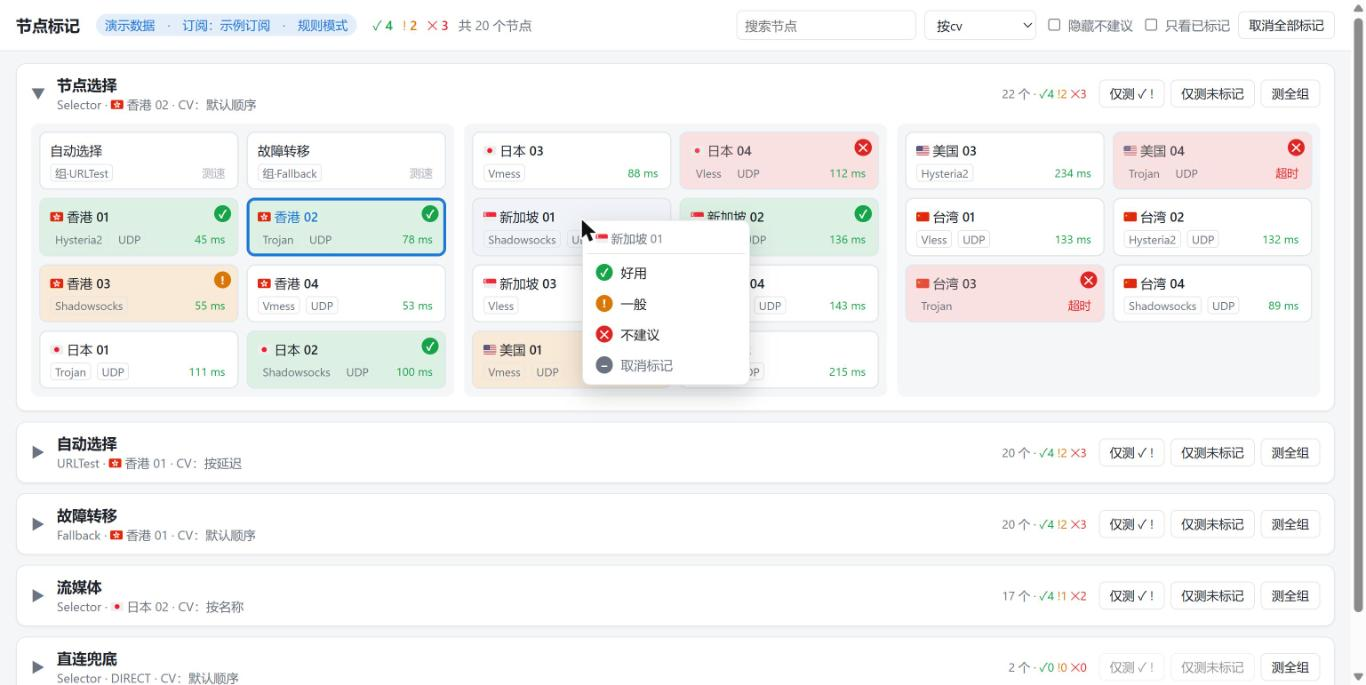
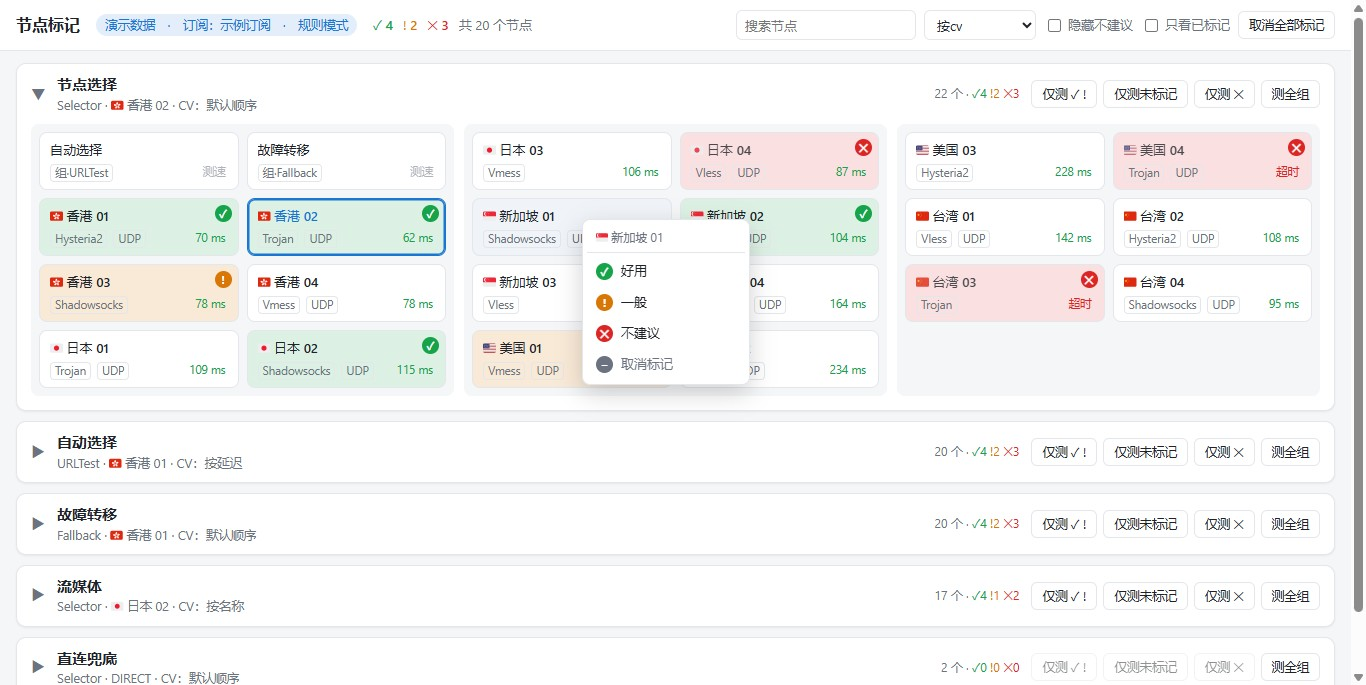
Add "仅测 ✕" button to re-test nodes marked avoid
- New per-group button after 仅测未标记: tests only the group's nodes
  marked ✕ 不建议, to see whether they have improved
- The three 仅测 buttons now come from one SUBSET_TESTS table that
  defines each button's text, tooltip and which nodes it picks
- README (zh/en): document the new button; refresh the screenshot

diff --git a/index.html b/index.html
@@ -189,8 +189,18 @@ const POLL_MS = 3000;
 
 let state = null;
 let lastJson = '';
-const testing = new Set();          // 正在测速的节点名 / 'group:组名'（测全组、仅测 ✓ !、仅测未标记共用）
-const TEST_CONCURRENCY = 8;         // 仅测 ✓ ! / 仅测未标记时同时测几个节点
+const testing = new Set();          // 正在测速的节点名 / 'group:组名'（测全组和各个「仅测」共用）
+const TEST_CONCURRENCY = 8;         // 「仅测」时同时测几个节点
+// 组标题上的「仅测」按钮，按显示顺序。pick 决定测哪些节点。
+// 「未标记」只算能标记的节点：代理组、DIRECT 这类不算（测代理组会顺带测它当前选中的节点，可能是已标记的）
+const SUBSET_TESTS = {
+  testMarked: { button: '仅测 ✓ !', label: ' ✓ ! ', title: '只测本组里标为 ✓ 好用、! 一般 的节点',
+    pick: (n) => ['good', 'warn'].includes(state.marks[n]) },
+  testUnmarked: { button: '仅测未标记', label: '未标记', title: '只测本组里还没有标记的节点（不含代理组、DIRECT 等不能标记的项）',
+    pick: (n) => state.nodes[n] && state.nodes[n].markable && !state.marks[n] },
+  testBad: { button: '仅测 ✕', label: ' ✕ ', title: '只测本组里标为 ✕ 不建议 的节点，看看有没有变好',
+    pick: (n) => state.marks[n] === 'bad' },
+};
 
 // 每个浏览器自己的界面偏好（展开的组、筛选），存不了也不影响使用
 const prefs = (() => {
@@ -319,7 +329,6 @@ function render() {
     const members = sortedMembers(g);
     const gm = { good: 0, warn: 0, bad: 0 };
     for (const n of g.all) if (s.marks[n]) gm[s.marks[n]]++;
-    const unmarkedCount = g.all.filter((n) => s.nodes[n] && s.nodes[n].markable && !s.marks[n]).length;
     const gTesting = testing.has('group:' + g.name);
     html += `<section class="group${open ? ' open' : ''}" data-group="${esc(g.name)}">
       <div class="ghead" data-act="toggle">
@@ -330,8 +339,8 @@ function render() {
         </div>
         <span class="gmarks">${g.all.length} 个 · <span style="color:var(--good)">✓${gm.good}</span> <span style="color:var(--warn)">!${gm.warn}</span> <span style="color:var(--bad)">✕${gm.bad}</span></span>
         <span class="gbtns">
-          <button data-act="testMarked" title="只测本组里标为 ✓ 好用、! 一般 的节点"${gTesting || !gm.good && !gm.warn ? ' disabled' : ''}>仅测 ✓ !</button>
-          <button data-act="testUnmarked" title="只测本组里还没有标记的节点（不含代理组、DIRECT 等不能标记的项）"${gTesting || !unmarkedCount ? ' disabled' : ''}>仅测未标记</button>
+          ${Object.entries(SUBSET_TESTS).map(([act, t]) =>
+            `<button data-act="${act}" title="${t.title}"${gTesting || !g.all.some(t.pick) ? ' disabled' : ''}>${t.button}</button>`).join('')}
           <button data-act="testGroup"${gTesting ? ' disabled' : ''}>${gTesting ? '测速中…' : '测全组'}</button>
         </span>
       </div>
@@ -390,13 +399,11 @@ $('main').addEventListener('click', async (e) => {
     testing.delete('group:' + group); g.all.forEach((n) => testing.delete(n));
     return refresh(true);
   }
-  if (act && (act.dataset.act === 'testMarked' || act.dataset.act === 'testUnmarked')) {
+  if (act && SUBSET_TESTS[act.dataset.act]) {
     e.stopPropagation();
     const g = state.groups.find((x) => x.name === group);
-    const unmarked = act.dataset.act === 'testUnmarked';
-    // 「未标记」只算能标记的节点：代理组、DIRECT 这类不算（测代理组会顺带测它当前选中的节点，可能是已标记的）
-    const names = g.all.filter((n) => unmarked ? state.nodes[n] && state.nodes[n].markable && !state.marks[n]
-      : ['good', 'warn'].includes(state.marks[n]));
+    const t = SUBSET_TESTS[act.dataset.act];
+    const names = g.all.filter(t.pick);
     if (!names.length) return;
     testing.add('group:' + group);
     names.forEach((n) => testing.add(n));
@@ -416,7 +423,7 @@ $('main').addEventListener('click', async (e) => {
     };
     await Promise.all(Array.from({ length: Math.min(TEST_CONCURRENCY, names.length) }, worker));
     testing.delete('group:' + group);
-    toast(`${group}：测了 ${names.length} 个${unmarked ? '未标记' : ' ✓ ! '}节点${failed ? `，${failed} 个超时或失败` : ''}`);
+    toast(`${group}：测了 ${names.length} 个${t.label}节点${failed ? `，${failed} 个超时或失败` : ''}`);
     return refresh(true);
   }
   if (act && act.dataset.act === 'toggle') {

diff --git a/README.en.md b/README.en.md
@@ -17,7 +17,7 @@ It changes no Clash Verge settings and needs no patched build. It talks to the m
 - **Mirrored proxy groups**: same group order, selected node, node type and delay as Clash Verge, refreshed every 3 seconds.
 - **Right-click to mark**: good / so-so / avoid / unmark. Marked cards get a tinted background and a badge in the top-right corner (the colored frame is reserved for the currently selected node). Each group header shows how many nodes carry each mark. 取消全部标记 in the top bar removes every mark in the current profile (it asks first, and this can't be undone).
 - **Left-click to switch**: works like clicking in Clash Verge, and Clash Verge follows the change.
-- **Delay tests**: click the delay at the bottom-right of a card to test one node, 测全组 to test a whole group, 仅测 ✓ ! to test only the group's nodes marked good or so-so, or 仅测未标记 to test only the group's unmarked nodes. The test URL and timeout come from your Clash Verge settings.
+- **Delay tests**: click the delay at the bottom-right of a card to test one node, 测全组 to test a whole group, 仅测 ✓ ! to test only the group's nodes marked good or so-so, 仅测未标记 to test only the group's unmarked nodes, or 仅测 ✕ to test only the group's nodes marked avoid (to see whether they have improved). The test URL and timeout come from your Clash Verge settings.
 - **Filter and sort**: search; sort by default order, CV order (按cv), delay, mark, mark then delay, or name; hide nodes marked avoid; show only marked nodes.
 - **CV order (按cv)**: each proxy group uses the sort order it has on the Clash Verge proxies page (default / by delay / by name). The group header shows which one applies (see "CV order" below).
 - **Columns inside each group**: proxy groups are stacked top to bottom, and the nodes inside each group are split into three columns with two nodes per row; nodes fill the first column before moving to the next. Narrow windows fall back to two columns, then one.

diff --git a/README.md b/README.md
@@ -15,7 +15,7 @@
 - **镜像代理组**：分组顺序、当前选中的节点、节点类型、延迟都和 Clash Verge 一样，每 3 秒刷新一次。
 - **右键标记**：好用 / 一般 / 不建议 / 取消标记。标记后卡片显示对应颜色的底色和右上角徽标（彩色框只用来表示当前选中的节点），组标题旁显示每档数量。顶栏的「取消全部标记」一次取消当前订阅下的所有标记（会先确认，取消后不能恢复）。
 - **左键切换节点**：和在 Clash Verge 里点一样，Clash Verge 会同步变化。
-- **测延迟**：点卡片右下角测单个节点，点「测全组」测整组，点「仅测 ✓ !」只测本组里标为好用和一般的节点，点「仅测未标记」只测本组里还没标记的节点。测速地址和超时沿用 Clash Verge 的设置。
+- **测延迟**：点卡片右下角测单个节点，点「测全组」测整组，点「仅测 ✓ !」只测本组里标为好用和一般的节点，点「仅测未标记」只测本组里还没标记的节点，点「仅测 ✕」只测本组里标为不建议的节点（看看有没有变好）。测速地址和超时沿用 Clash Verge 的设置。
 - **筛选和排序**：搜索；按默认顺序 / cv / 延迟 / 标记 / 标记+延迟 / 名称排序；隐藏不建议的节点；只看已标记的节点。
 - **按cv**：每个代理组沿用它在 Clash Verge 代理页里的排序方式（默认 / 按延迟 / 按名称），组标题下会注明用的是哪种（见下文「按cv 排序」）。
 - **组内分栏**：代理组从上到下排列，每个组内部的节点分成三栏，每栏一行两个；节点按顺序先排满第一栏，再排下一栏。窗口变窄时自动改成两栏、一栏。
